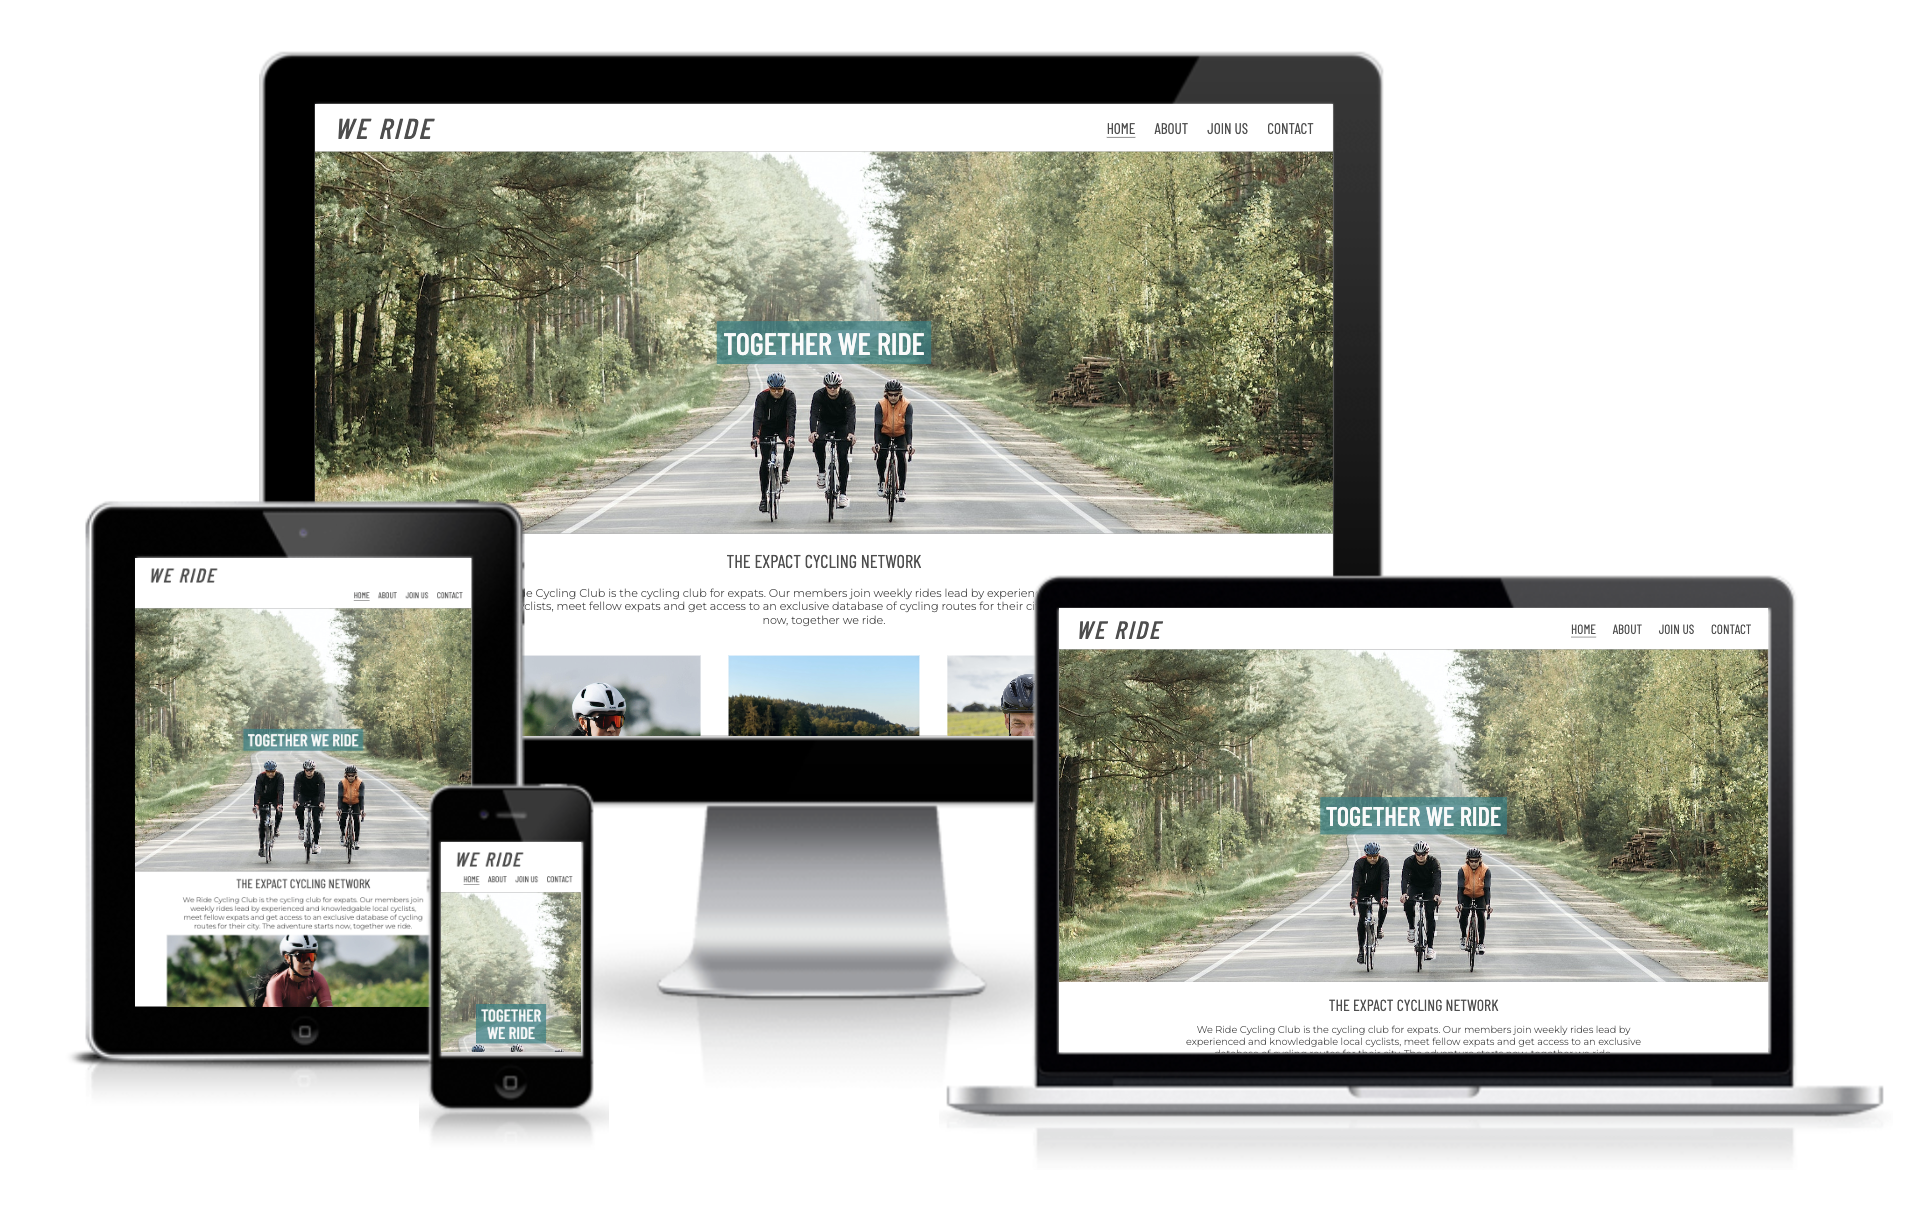
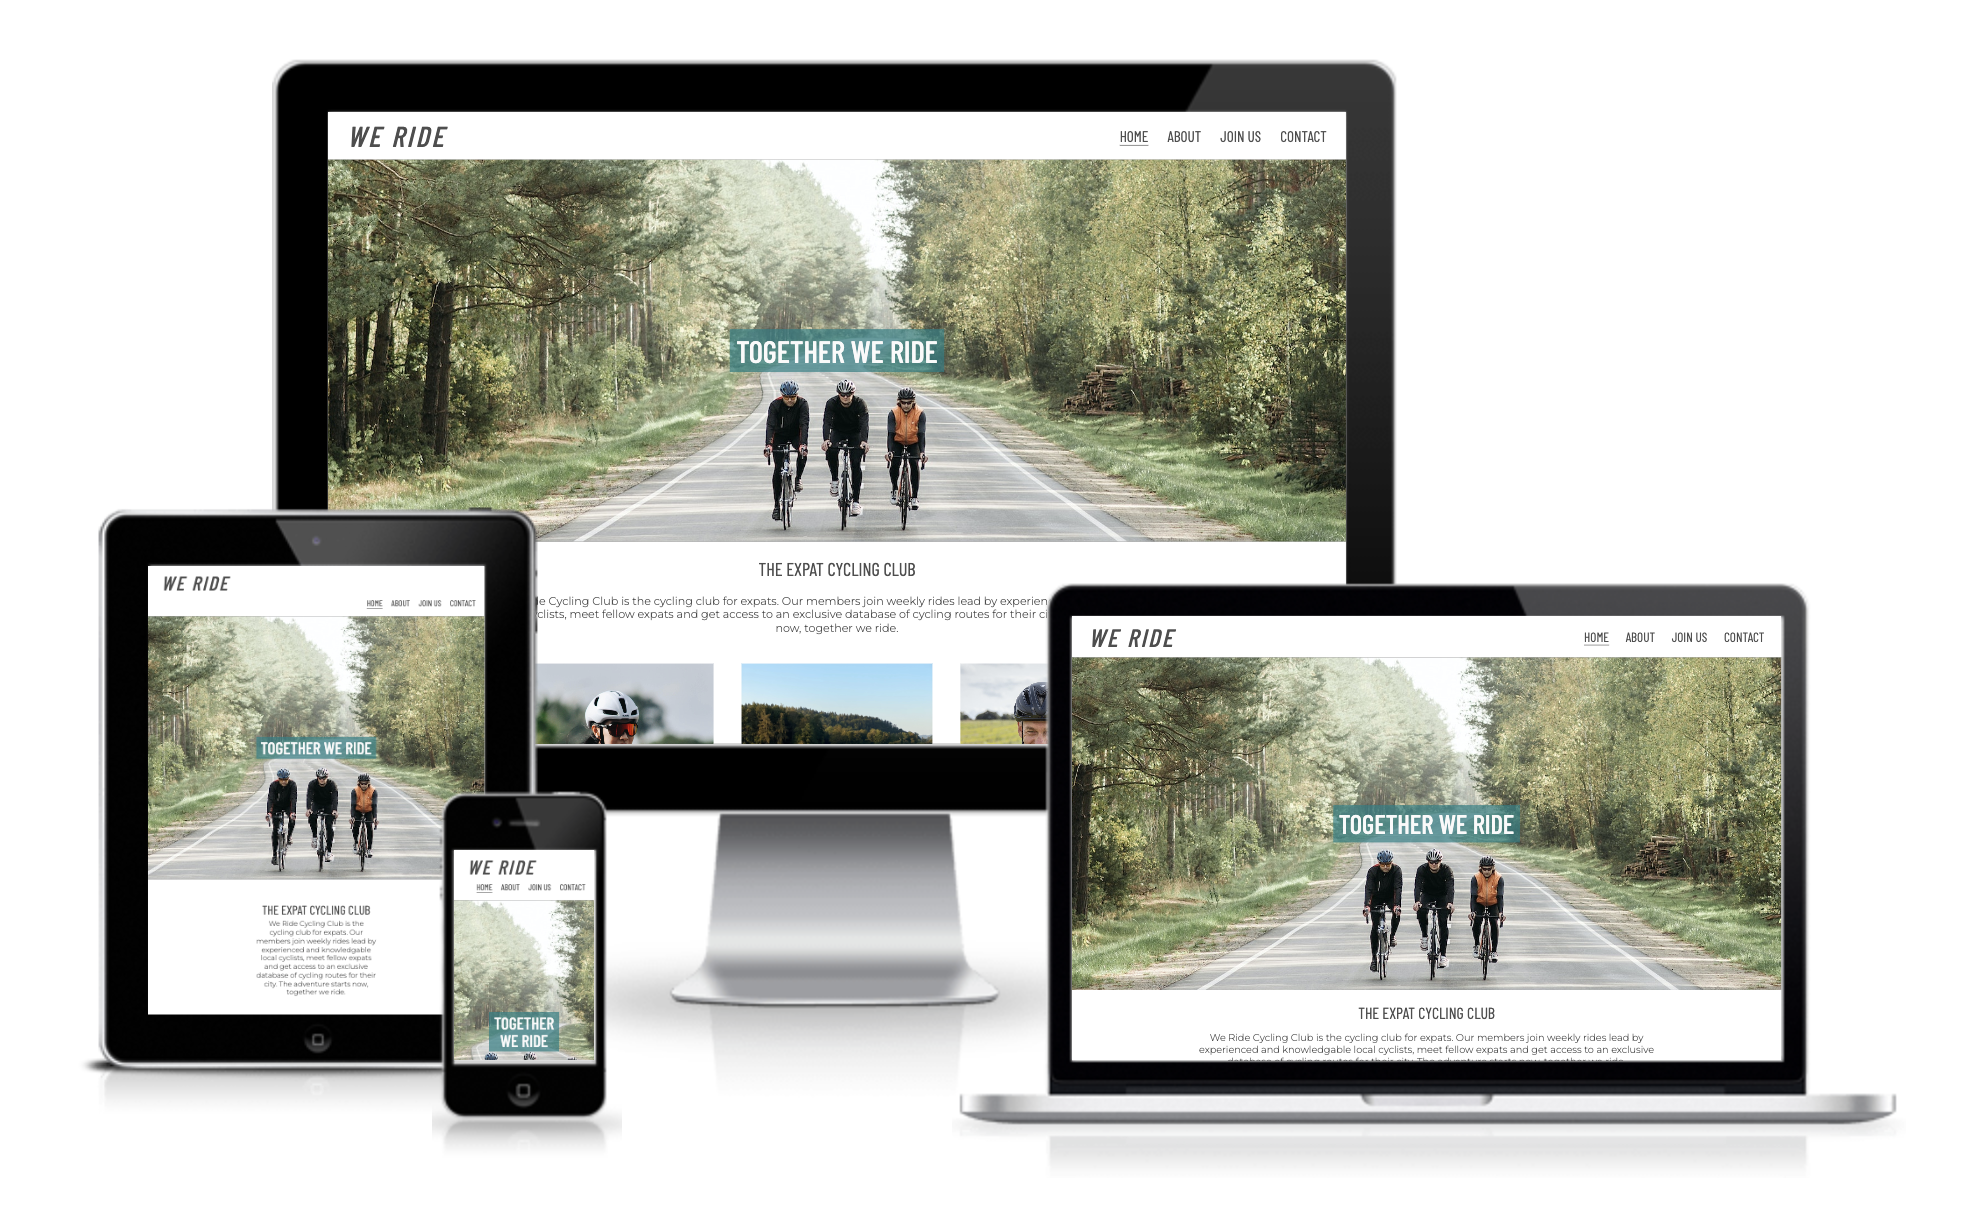
docs: review README.md file, fix spelling/grammer errors, update two images and add to responsive testing section

Changed region(s): [[0.0312, 0.0307, 0.9995, 0.9503]]

diff --git a/README.md b/README.md
@@ -1,9 +1,9 @@
 # We Ride Cycling Club 
 <image src="assets/readme-files/we-ride-devices-mockup.png" width="600px" text-align="center"></image>
 
-We Ride Cycling Club is a fictional cycling community for expats in Europe. We Ride Cycling Club matches expats with "Local Leaders" in the city they are moving to. The cyclists can join then group rides lead by the Local Leaders, meet fellow expats and get access to a database of cycling routes to upload to their Garmin to explore solo. 
+We Ride Cycling Club is a fictional cycling community for expats in Europe. We Ride Cycling Club matches expats with "Local Leaders" in the city they are moving to. The cyclists can join them group rides lead by the Local Leaders, meet fellow expats and get access to a database of cycling routes to upload to their Garmin to explore solo. 
 
-The goal of the We Ride Cycling Club website is to help the club build a community network of cyclists across Europe, help expats discover their new home with the guidance of local cyclists, educate users about the cycling club, and provide an easy sign up registration process for cyclists. We Rice Cycling Club wants to make it easy and less daunting for cyclists to discover their new home.
+The goal of the We Ride Cycling Club website is to help the club build a community network of cyclists across Europe, help expats discover their new home with the guidance of local cyclists, educate users about the cycling club, and provide an easy sign up registration process for cyclists. We Ride Cycling Club wants to make it easy and less daunting for cyclists to discover their new home.
 
 ## Table of Contents
 1. [User Experience](#user-experience-ux)
@@ -28,7 +28,7 @@ The goal of the We Ride Cycling Club website is to help the club build a communi
     - [Accessibility](#accessibility)
     - [Tools Testing](#tools-testing)
     - [Device Testing](#device-testing)
-    - [Browser Tesing](#browser-tesing)
+    - [Browser Testing](#browser-tesing)
     - [Feature Testing](#feature-testing)
     - [Bugs](#bugs)
 5. [Finished Product](#finished-product)
@@ -44,7 +44,7 @@ The goal of the We Ride Cycling Club website is to help the club build a communi
 - Build a clean, modern website for a cycling club which conveys a strong sense of community.  
 - Clearly outline how the cycling club works.
 - Provide a registration form for cyclists to join the club.
-- Provide a contact details for users to be able to ask for more information. 
+- Provide a contact form and contact details for users to be able to ask for more information. 
 
 ### User Stories
 - As a user, I want to be able to easily navigate the website to discover more about the cycling club. 
@@ -54,8 +54,7 @@ The goal of the We Ride Cycling Club website is to help the club build a communi
 - As a user, I want to be able to find the cycling club on social media. 
 
 ### Colour Scheme
-- The colour scheme used was teal green, charcoal grey and white. A green colour was chosen to be representative of being outdoors, with the teal shade giving a modern, clean feel to the website. 
-<image src="assets/readme-files/we-ride-colour-palette.png" height="300px"></image>
+- The colour scheme used was teal green, charcoal grey and white. A green colour was chosen to be representative of being outdoors, with the teal shade giving a modern, clean feel to the website. <br> <image src="assets/readme-files/we-ride-colour-palette.png" height="300px"></image>
 
 ### Typography
 - Barlow Condensed was used for the logo and headings with sans-serif as the fallback font.
@@ -71,8 +70,8 @@ The goal of the We Ride Cycling Club website is to help the club build a communi
 ## Features
 ### General
 - The website incorporates a responsive design so it can be used across multiple device sizes. 
-- The website uses a consistnet colour scheme across the site. 
-- Each page has a responsive navigation bar with the club logo and links the each website page to allow for easy navigation for the user.<br>
+- The website uses a consistent colour scheme across the site. 
+- Each page has a responsive navigation bar with the club logo and links to each website page to allow for easy navigation for the user.<br>
 <image src="assets/readme-files/weride-header.png" width="600px"></image>
 - Each page has a repsonsive footer with social media links. Social media links open in a new browser window.<br>
 <image src="assets/readme-files/weride-footer.png" width="600px"></image>
@@ -90,7 +89,7 @@ The goal of the We Ride Cycling Club website is to help the club build a communi
     - This section contains a CTA button that will bring the user to the Join Us page of the website.<br><image src="assets/readme-files/weride-ctabutton.png" width="600px"></image>
 
 ### About Page
-- The about page is split into 3 section: Our Story, Our People and Missions and Values. <br> <image src="assets/readme-files/weride-about-story.png" width="600px"></image><br><image src="assets/readme-files/weride-about-people.png" width="600px"><br></image><image src="assets/readme-files/weride-about-values.png" width="600px"></image>
+- The about page is split into 3 sections: Our Story, Our People and Missions and Values. <br> <image src="assets/readme-files/weride-about-story.png" width="600px"></image><br><image src="assets/readme-files/weride-about-people.png" width="600px"><br></image><image src="assets/readme-files/weride-about-values.png" width="600px"></image>
 - The page aims to give the user a more indepth look into the cycling club to encourage then to join.
 - The page has a video with a motivational quote underneath.<br>
 <image src="assets/readme-files/weride-about-video.png" width="600px"></image>
@@ -109,17 +108,17 @@ The goal of the We Ride Cycling Club website is to help the club build a communi
 
 ### Future Features 
 - An "Insights" page which would publish weekly blogs from We Ride Cycling Club members, articles on latest cycling trends, and general cycling advice articles. 
-- On the join us form a future feature inclues a pre-populated dropdown menu of cities based on the Country that the user selected. 
+- On the Join Us form a future feature includes a pre-populated dropdown menu of cities based on the Country that the user selected. 
 
 ## Technologies Used
 ### Languages 
 - HTML 
 - CSS 
 ### Frameworks, Libraries and Programmes 
-- [Balsamiq](https://balsamiq.com/): this was used to created wireframes in the planning stage of the project. 
+- [Balsamiq](https://balsamiq.com/): this was used to create wireframes in the planning stage of the project. 
 - [Fontpair](https://www.fontpair.co/): this was used to find fonts that compliment each other. 
 - [Google Fonts](https://fonts.google.com/): this was used to import fonts into the style.css file.
-- [Coolers](https://coolors.co/): to create a colour pallete for the website. 
+- [Coolers](https://coolors.co/): this was used to create a colour pallete for the website. 
 - [Font Awesome](https://fontawesome.com/): this was used to add icons to pages to enhance user experience. 
 - [Pexals](https://www.pexels.com/): this was used to find images and videos for the project. 
 - [Gitpod](https://www.gitpod.io/): this was used to write, commit and to push the code to Github. 
@@ -150,14 +149,14 @@ The following validators were used to test the code:
 - [W3C Markup Validator](https://validator.w3.org/): No errors were reported when passing the final HTML code through the validator. 
 - [W3C CSS Validator](https://jigsaw.w3.org/css-validator/): No errors were reported when passing the final CSS code through the validator.
 The validators were used throughout the development stage of the website as part of ongoing testing of html and css. Examples of errors and warnings can be found below which were all resolved 
-    - Example 1: CSS Validator gave warnings for font family names and stlying of submit buttons. <br> <image src="assets/readme-files/css-validator-output-1.png" width="600px"></image>
+    - Example 1: CSS Validator gave warnings for font family names and styling of submit buttons. <br> <image src="assets/readme-files/css-validator-output-1.png" width="600px"></image>
     - Example 2: HTML Validator gave syntax warnings for index.html. <br> <image src="assets/readme-files/html-validator-output-1.png" width="600px"></image>
     - Example 3: HTML Validator gave syntax warnings and errors for div and form elements on contact.html.<br> <image src="assets/readme-files/html-validator-output-2.png" width="600px"></image>
 
 ### Accessibility
 The following tool was used to check accessibility of the website:
 - [Lighthouse](https://developer.chrome.com/docs/lighthouse/overview/): was used to check the accessibility score of each site page and to see if there were issues. 
-    - This tool highlighted an issue with radio button labels on the Join Us page. The wrong "for" value had been assigned to the 80-100km radio button which impacted the accessbility score. After fixing this issue the accessibility score increased from 90 to 100. Initial Lighthouse report: showing a score of 90: 
+    - This tool highlighted an issue with radio button labels on the Join Us page. The wrong "for" value had been assigned to the 80-100km radio button which impacted the accessbility score. After fixing this issue the accessibility score increased from 90 to 100. Initial Lighthouse report below shows the score of 90: 
     <br>
     <image src="assets/readme-files/lighthouse-join-us-accessibility.png" width="600px"></image>
 - Lighthouse Reports:
@@ -171,6 +170,7 @@ The following tools were used to test the website:
 - [Chrome DevTools](https://developer.chrome.com/docs/devtools/): This was used throughout the project to test responsiveness, to de-bug any issues, and to test changes to HTML and CSS before implementing them in Gitpod. 
 - [Responsive Design Checker](https://www.responsivedesignchecker.com/): This was used to check the responsiveness of each page of the site on different device sizes including mobile, tablet, laptop and desktop. 
     - This revealed that the join-us form was too short for tablet devices of 800x1280, there was spacing underneath the footer. The height of the form-section was increased from 900x to 1200px for max-width 950px to resolve this. 
+    - This is also revealed that the contact.html page was too short for large desktop screens with a height of 1000px-1200px. The height of the contact section was adjusted to resolve this display issue.  
 
 ### Device Testing
 The website was manually tested on the following devices with no issues:
@@ -196,7 +196,7 @@ The following website features were manually tested:
 - The hover effect added to buttons and text fields work as expected. 
 
 ### Bugs
-- The video did not work on the deployed site:
+- The video on about.html did not work initially on the deployed site:
     - After deploying my project the video on about.html did not work. I raised a query in Slack where it was highlighted that I used an absolute filepath rather than a relative filepath. I fixed the filepath and the issue was resolved. 
 
 ## Finished Product
@@ -209,7 +209,7 @@ The finished site was then deployed to GitHub pages using the following steps:
 2. Once inside the repository, locate and click on the Settings tab. 
 3. On the left handside, under the 'Code and automation' section, click on Pages. 
 4. In the Branch section, locate the dropdown menu and change it from None to Main. 
-5. Click save. The page will refresh with a link to your website. 
+5. Click save. The page will refresh with a link to the website. 
 
 ## Credits
 ### Content
